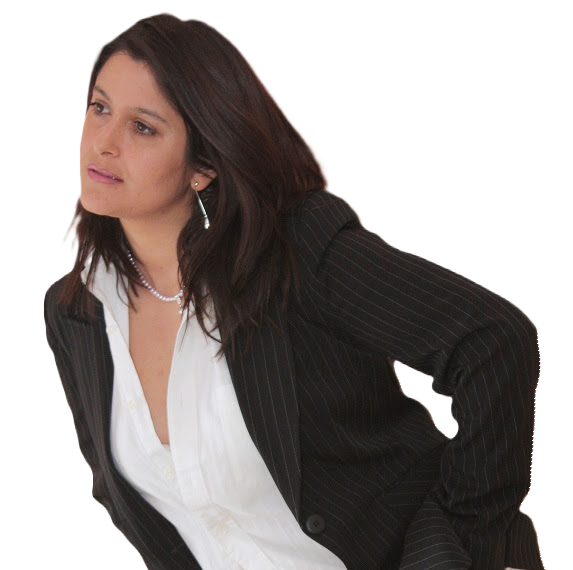
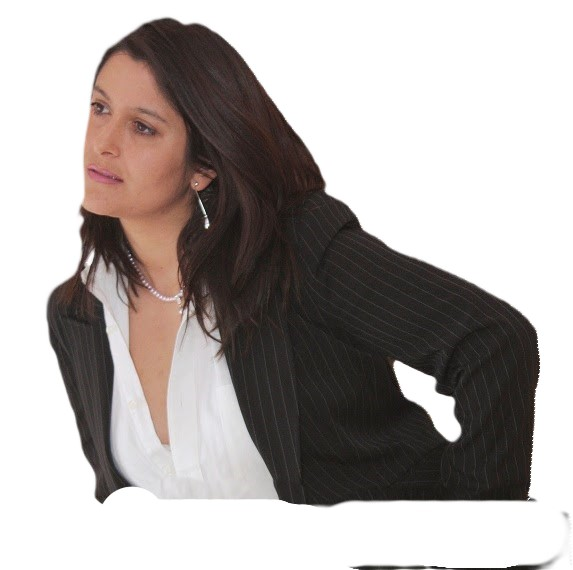
Skills added to the portfolio

diff --git a/index.html b/index.html
@@ -67,14 +67,14 @@
 
         <div class="home-image">
             <div class="img-box">
-                <img src="./assets/img/AgiRemove (2).jpg" alt="" />
+                <img src="./assets/img/jo.jpg" alt="">
             </div>
 
             <div class="liquid-shape">  
                 <svg viewBox="0 0 500 500" xmlns="http://www.w3.org/2000/svg" xmlns:xlink="http://www.w3.org/1999/xlink" width="100%" id="blobSvg">
                     <path fill="#12f7ff">
                         <animate attributeName="d" 
-                        dur="4000ms"
+                        dur="20000ms"
                         repeatCount="indefinite"
                         values="
                         M411,293.5Q415,337,376,356.5Q337,376,304.5,404Q272,432,230.5,421Q189,410,154.5,387.5Q120,365,82,333Q44,301,53.5,252.5Q63,204,86.5,165Q110,126,150.5,110.5Q191,95,233,70Q275,45,313.5,73.5Q352,102,376.5,136.5Q401,171,404,210.5Q407,250,411,293.5Z;
@@ -126,14 +126,12 @@
                   </svg>
             </div>
         </div>
-
-
-    </section>
+     </section>
 
     <!-- about section -------------------->
     <section id="about" class="about">
         <div class="img-about">
-            <img src="./assets/img/about-me-pic2.png" alt="">
+            <img src="./assets/img/proba.png" alt="">
             <div class="info-about1">
                 <span>10+</span>
                 <p>Years of Experience</p>
@@ -206,6 +204,116 @@
 </div>
 </section>
 
+  <!-- skill section -------------------->
+  <section id="skills" class="skills">
+    <div class="main-text">
+        <span>Technical and Professional</span>
+        <h2>My skills</h2>
+    </div>
+
+    <div class="skill-main">
+        <div class="skill-left">
+            <h3>Technical Skills</h3>
+            <div class="skill-bar">
+                <div class="info">
+                    <p>HTML</p>
+                    <p>94%</p>
+            </div>
+
+                    <div class="bar">
+                        <span class="html"></span>
+                </div>
+            </div>
+
+            <div class="skill-bar">
+                <div class="info">
+                    <p>CSS</p>
+                    <p>90%</p>
+            </div>
+                    <div class="bar">
+                        <span class="css"></span>
+                </div>
+            </div>
+
+            <div class="skill-bar">
+                <div class="info">
+                    <p>JavaScript</p>
+                    <p>74%</p>
+            </div>
+                    <div class="bar">
+                        <span class="javascript"></span>
+                </div>
+            </div>
+
+            <div class="skill-bar">
+                <div class="info">
+                    <p>React</p>
+                    <p>88%</p>
+            </div>
+                    <div class="bar">
+                        <span class="react"></span>
+                </div>
+            </div>
+    </div>
+        <div class="skill-right">
+            <h3>Professional Skills</h3>
+            <div class="professional">
+                <div class="box">
+                    <div class="circle">
+                        <div class="points" style="--i:1;"></div>
+                            <div class="points" style="--i:1;"></div>
+                                <div class="points" style="--i:1;"></div>
+                    </div>
+              
+                    <div class="text">
+                        <big>90%</big>
+                        <small>Team Work</small>
+                        </div>
+                        </div>
+                  
+                    <div class="box">
+                        <div class="circle">
+                            <div class="points" style="--i:1;"></div>
+                                <div class="points" style="--i:1;"></div>
+                                    <div class="points" style="--i:1;"></div>
+                        </div>
+                        <div class="text">
+                            <big>90%</big>
+                            <small>Team Work</small>
+                            </div>
+                        </div>
+                        <div class="box">
+                            <div class="circle">
+                                <div class="points" style="--i:1;"></div>
+                                    <div class="points" style="--i:1;"></div>
+                                        <div class="points" style="--i:1;"></div>
+                            </div>
+            
+                            <div class="text">
+                                <big>90%</big>
+                                <small>Team Work</small>
+        
+                                </div>
+                            </div>
+                            <div class="box">
+                                <div class="circle">
+                                    <div class="points" style="--i:1;"></div>
+                                        <div class="points" style="--i:1;"></div>
+                                            <div class="points" style="--i:1;"></div>
+                                </div>
+                                
+                                <div class="text">
+                                    <big>90%</big>
+                                    <small>Team Work</small>
+            
+                                    </div>
+                                </div>
+                </div>
+        </div>
+
+  </section>
+
+ 
     
     <script src="./assets/script.js"></script> 
 </body>

diff --git a/assets/style.css b/assets/style.css
@@ -293,7 +293,7 @@ a.btn:nth-child(2)::before{
 }
 
 .liquid-shape:nth-child(2){
-    filter: blur(50);
+    filter: blur(50px);
 }
 
 /* About Section css ---------------------------------------------*/
@@ -445,8 +445,123 @@ a.btn:nth-child(2)::before{
     outline: 3px solid var(--bg-color);
 }
 
+.service-box h3{
+    margin-top: 10px;
+    font-size: 1.5rem;
+}
 
+.service-box p{
+    margin: .5rem 0 1.5rem 0;
+    font-weight: 300;
+    letter-spacing: 1px;
+    color: #bdbdbd;
+    line-height: 1.6;
+}
 
+/* skill section css ----------------------------------------*/
+.skills{
+    background: var(--secon-bg-color);
+}
+
+.skill-main{
+    width: 100%;
+    display: grid;
+    grid-template-columns: repeat(2,1fr);
+    grid-row-gap: 30px;
+    grid-column-gap: 50px;
+}
+
+.skill-bar{
+    margin-bottom: 2.3rem;
+}
+
+.skill-main h3{
+    margin-bottom: 2rem;
+    font-size: var(--normal-font);
+    text-align: center;
+}
+
+.skill-left .skill-bar .info{
+    display: flex;
+    justify-content: space-between;
+    align-items: center;
+    padding: 0 10px;
+}
+
+.skill-left .skill-bar .bar{
+    width: 100%;
+    height: 10px;
+    background-color: var(--bg-color); 
+    border-radius: 25px;
+    margin-top: 10px;
+    position: relative;
+}
+
+.skill-bar .bar span{
+    width: 50%;
+    height: 100%;
+    position: absolute;
+    left: 0;
+    background: var(--hover-color);
+    border-radius: 25px;
+    box-shadow: var(--neon-box-shadow);
+}
+
+.skill-bar .bar .html{
+    width: 94%;
+    animation: html 2s;
+}
+
+.skill-bar .bar .css{
+    width: 90%;
+    animation: css 3s;
+}
+
+.skill-bar .bar .javascript{
+    width: 74%;
+    animation: javascript 4s;
+}
+
+.skill-bar .bar .react{
+    width: 88%;
+    animation: react 5s;
+}
+
+/* skill right   */
+.professional{
+    display: grid;
+    grid-template-columns: 1fr 1fr;
+}
+
+.box{
+    position: relative;
+    margin: 10px 0;
+    flex: 1 1 15rem;
+}
+
+.box .text{
+    text-align: center;
+    color: #fff;
+    font-size: 1rem;
+}
+
+.box .text big{
+    font: 400;
+    letter-spacing: 1px;
+    position: absolute;
+    top: 40%;
+    left: 50%;
+    transform: translate(-50% , -50%);
+}
+
+.circle{
+    width: 100%;
+    height: 120px;
+    display: flex;
+    justify-content: center;
+    align-items: center;
+    border: 2px solid #fff;
+}
 
 
 
@@ -471,5 +586,42 @@ a.btn:nth-child(2)::before{
     }
     80%{
         border-radius: 69% 31% 66% 34% / 21% 30% 70% 79%;
+    }
+}
+
+@keyframes html{
+    0%{
+        width: 0%;
+    }
+
+    100%{
+        width: 94%;
+    }
+}
+@keyframes css{
+    0%{
+        width: 0%;
+    }
+
+    100%{
+        width: 90%;
+    }
+}
+@keyframes javascript{
+    0%{
+        width: 0%;
+    }
+
+    100%{
+        width: 74%;
+    }
+}
+@keyframes react{
+    0%{
+        width: 0%;
+    }
+
+    100%{
+        width: 88%;
     }
 }
